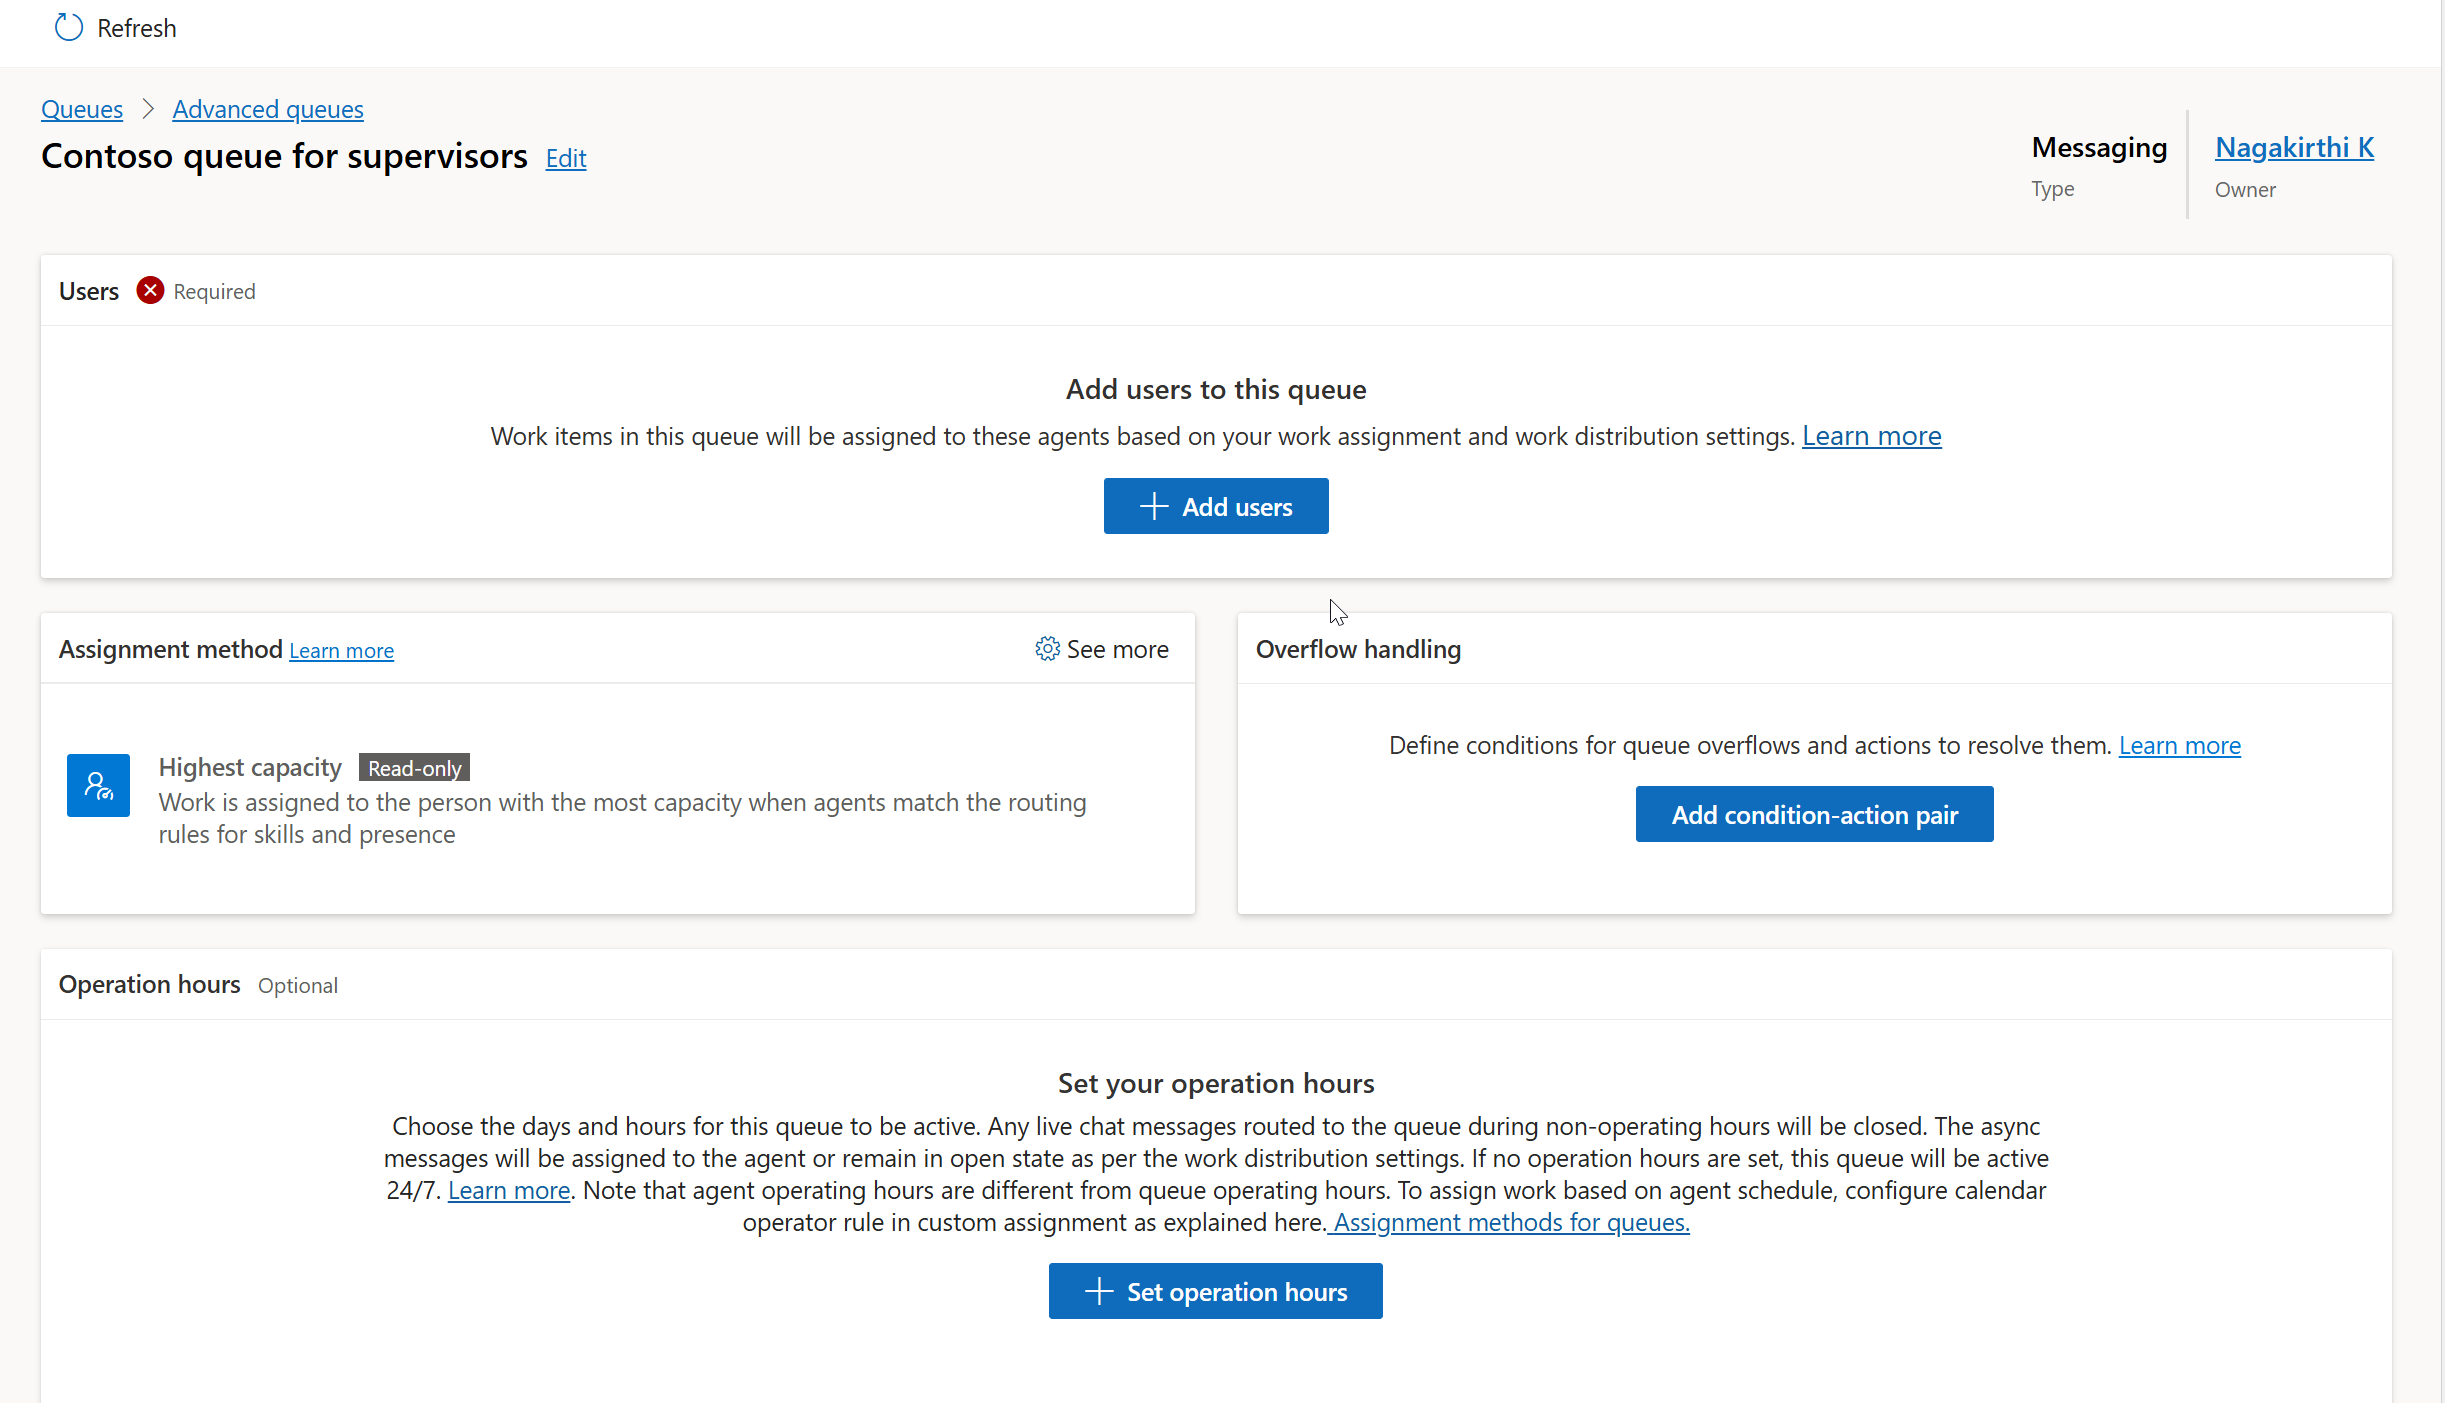
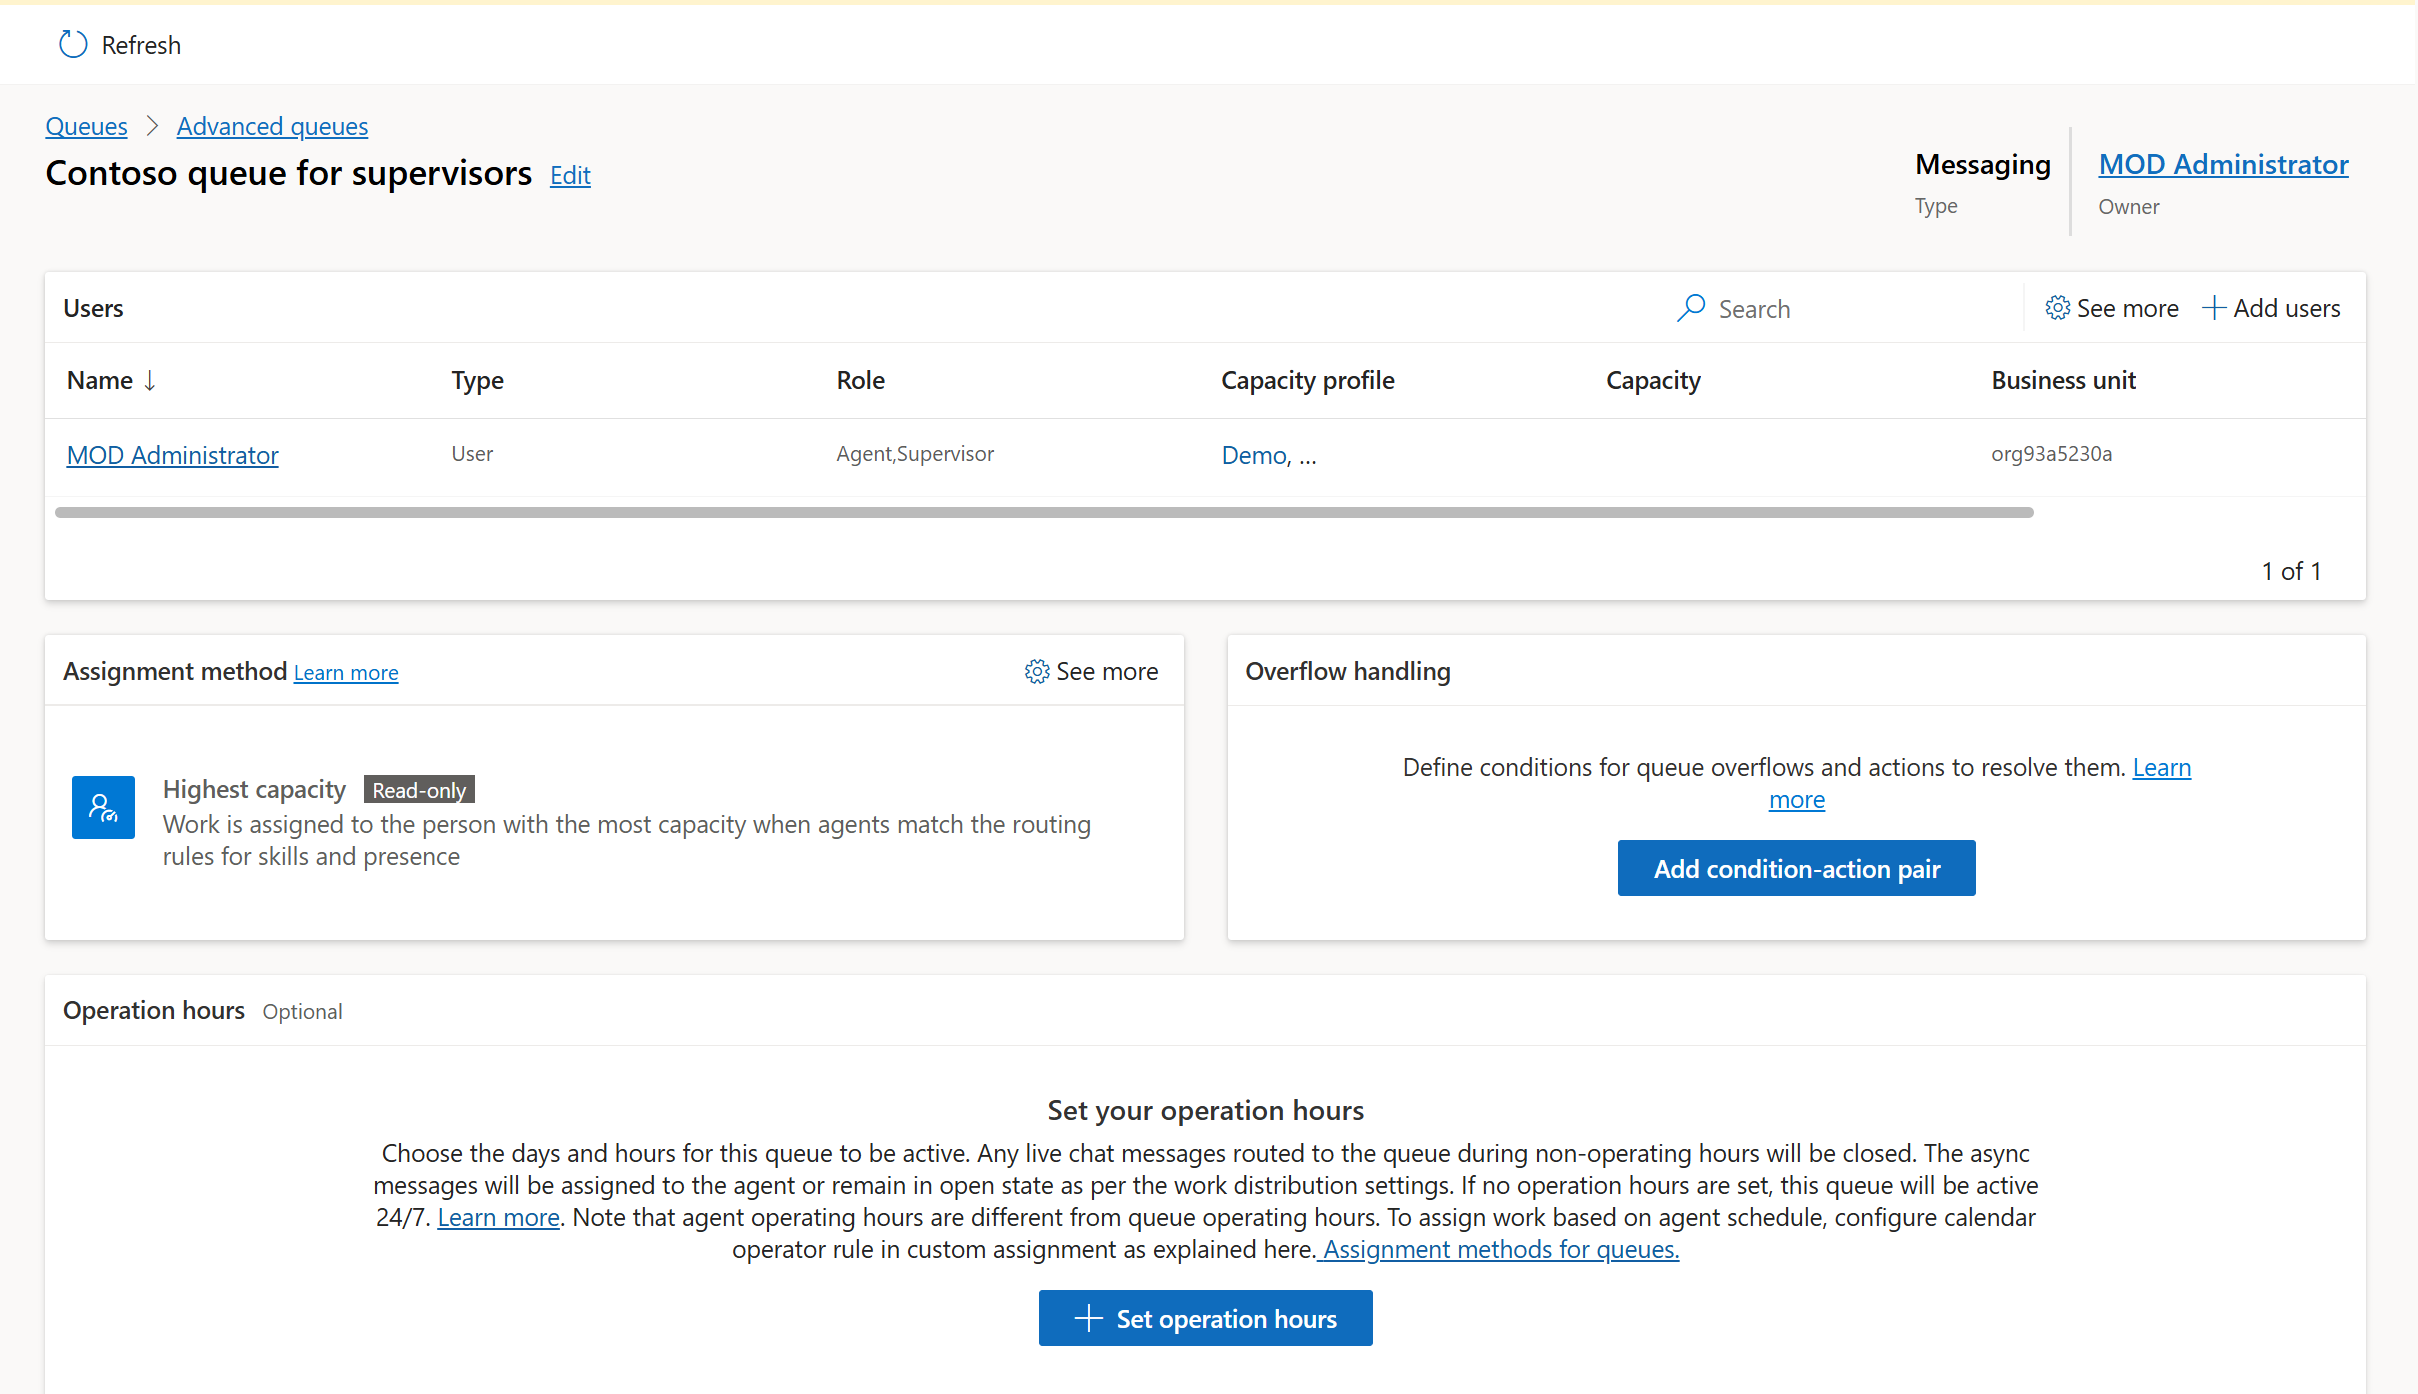
Lab 5

diff --git a/Lab Guides/Lab 5 - Create and manage workstreams and Queues.md b/Lab Guides/Lab 5 - Create and manage workstreams and Queues.md
@@ -1,4 +1,6 @@
-# Create and manage workstreams and Queues
+# Lab 5 - Create and manage workstreams and Queues
+
+**Objective** - In this Lab, you will create workstream and Queue in the customer service admin center. You will also navigate through how we manage them in the Customer Service admin center.
 
 ## Exercise 1 - Create and Manage Workstream
 
@@ -11,25 +13,23 @@ admin center app.
     window, launch from **Power Platform Admin center \> Environments\>
     Your Environment \> Environment URL.**
 
-2.  Select Customer Service Workspace and Select Customer Service Admin
-    center from the list of Apps.
+2.  Select **Customer Service Workspace** and Select **Customer Service Admin
+    center** from the list of Apps.
 
 3.  In the site map of admin center,
-    select **Workstreams** in **Customer support**.
+    select **Workstreams** under **Customer support**.
 
-![A screenshot of a phone Description automatically
+    ![A screenshot of a phone Description automatically
 generated](./media/media5/image1.png)
 
 4.  Select **New workstream**.
 
-![A screenshot of a chat Description automatically
+    ![A screenshot of a chat Description automatically
 generated](./media/media5/image2.png)
 
 5.  In the **Create a workstream** dialog, enter the following details:
 
-    - **Name**: Enter an intuitive name - **Contoso chat workstream**.
-
-    &nbsp;
+    - **Name**: Enter an intuitive name - `Contoso chat workstream`.
 
     - **Type**: Select **Messaging**
 
@@ -37,8 +37,6 @@ generated](./media/media5/image2.png)
       as **Messaging**. Select **Chat**
 
     - Select **Persistent** **Chat** checkbox.
-
-    &nbsp;
 
     - **Work distribution mode**: Select **Push** 
 
@@ -48,9 +46,9 @@ generated](./media/media5/image2.png)
     - Select **Create**. The workstream that you created is displayed
       with the option to configure the selected channel instance.
 
-![](./media/media5/image3.png)
+    ![](./media/media5/image3.png)
 
-![A screenshot of a computer Description automatically
+    ![A screenshot of a computer Description automatically
 generated](./media/media5/image4.png)
 
 ### Task 2 - Manage workstreams
@@ -61,99 +59,91 @@ generated](./media/media5/image4.png)
 2.  Select **Contoso chat workstream** on the **All workstreams** page
     and select **Edit** on the command menu to edit the workstream.
 
-![](./media/media5/image5.png)
+    ![](./media/media5/image5.png)
 
 3.  To copy the **Contoso chat workstream**, select the workstream and
     click **Copy** on the command menu.
 
-![](./media/media5/image6.png)
+    ![](./media/media5/image6.png)
 
 4.  Select **Copy** in the ***Do you want to copy this
     workstream?*** dialog.
 
-![Graphical user interface, application Description automatically
+    ![Graphical user interface, application Description automatically
 generated](./media/media5/image7.png)
 
 5.  The workstream is copied and inherits the settings of the workstream
     you copied from, including its name, prefixed with **Copy of Contoso
     chat workstream.**
 
-![Graphical user interface, text, application, email Description
+    ![Graphical user interface, text, application, email Description
 automatically generated](./media/media5/image8.png)
 
 6.  To delete the workstream, select the workstream and click
     **Delete.**
 
-![](./media/media5/image9.png)
+    ![](./media/media5/image9.png)
 
 ## Exercise 2 - Create and Manage Queues
 
 ### Task 1 - Create a queue for unified routing
 
-1.  In the site map of Customer Service admin center,
+1.  In the site map of **Customer Service admin center**,
     select **Queues** in **Customer support**.
 
-![A screenshot of a computer Description automatically
+    ![A screenshot of a computer Description automatically
 generated](./media/media5/image10.png)
 
 2.  On the **Queues** page, select **Manage** for **Advanced queues**.
 
-![A screenshot of a computer Description automatically
+    ![A screenshot of a computer Description automatically
 generated](./media/media5/image11.png)
 
-3.  On the **Queues** page, do the following steps:
+3.  On the **Queues** page, Select **New** **Queue**
 
-    1.  Select **New** **Queue**
+    ![A screenshot of a computer Description automatically generated](./media/media5/image12.png)
 
-> ![A screenshot of a computer Description automatically
-> generated](./media/media5/image12.png)
-
-2.  In the **Create a queue** dialog, enter the following details:
+4.  In the **Create a queue** dialog, enter the following details:
 
     - **Name**: **Contoso queue for supervisors**
 
-    &nbsp;
-
     - **Type**: Select **Messaging**
-
-    &nbsp;
 
     - **Group number**: **1**
 
     - Select **Create**
 
-> ![Graphical user interface, table Description automatically
-> generated](./media/media5/image13.png)
+    ![Graphical user interface, table Description automatically generated](./media/media5/image13.png)
 
-3.  The queue that you created is displayed.
+5.  The queue that you created is displayed.
 
-![A screenshot of a computer Description automatically
+    ![A screenshot of a computer Description automatically
 generated](./media/media5/image14.png)
 
-4.  Select **Add users**, and in the flyout menu, select the users who
+6.  Select **Add users**, and in the flyout menu, select the users who
     should be part of the queue, and then select **Add**. The users are
     added to the queue.
 
-![A screenshot of a computer Description automatically
+    ![A screenshot of a computer Description automatically
 generated](./media/media5/image15.png)
 
-5.  In **Assignment method**, You can see **Highest capacity** with
+7.  In **Assignment method**, You can see **Highest capacity** with
     **Read-only**
 
-![A screenshot of a computer Description automatically
+    ![A screenshot of a computer Description automatically
 generated](./media/media5/image16.png)
 
 6.  To set the operating hours, in **Operation hours**, select **Set
     operation hours**.
 
-![A screenshot of a computer Description automatically
+    ![A screenshot of a computer Description automatically
 generated](./media/media5/image17.png)
 
 7.  On the **Set operation hours** dialog that appears, click the
     dropdown next to **Select operation hours** and then click **+
     Create new**.
 
-![A screenshot of a computer Description automatically
+    ![A screenshot of a computer Description automatically
 generated](./media/media5/image18.png)
 
 8.  On the **New Operating Hour** page, enter **Contoso operation
@@ -162,21 +152,21 @@ generated](./media/media5/image18.png)
 9.  Click **Save & Close** to navigate back to the **Contoso queue for
     supervisors** page.
 
-![](./media/media5/image19.png)
+    ![](./media/media5/image19.png)
 
 10. On the **Contoso queue for supervisors** page, click **+** **Set
-    operation hours** again**.**
+    operation hours** again.
 
 11. On the **Set operation hours** pane, search for and select **Contoso
     operation hours** and click **Save and close.**
 
-![A screenshot of a computer screen Description automatically
+    ![A screenshot of a computer screen Description automatically
 generated](./media/media5/image20.png)
 
 12. The operation hours record that you selected is configured for the
     queue.
 
-![A screenshot of a computer Description automatically
+    ![A screenshot of a computer Description automatically
 generated](./media/media5/image21.png)
 
 ### Task 2 - Manage queues for unified routing
@@ -184,21 +174,24 @@ generated](./media/media5/image21.png)
 1.  On the **Queues** page, select the **Contoso queue for supervisors**
     to edit the users, assignment methods, or operating hour record.
 
-![](./media/media5/image22.png)
+    ![](./media/media5/image22.png)
 
 2.  Select **Contoso queue for supervisors** on the **Queues** page,
     select **Copy** on the command menu.
 
-![](./media/media5/image23.png)
+    ![](./media/media5/image23.png)
 
 3.  Select **Copy** in the ***Copy Queue*** dialog.
 
-![A screenshot of a computer screen Description automatically
+    ![A screenshot of a computer screen Description automatically
 generated](./media/media5/image24.png)
 
 4.  The queue is copied and inherits the settings of the queue you
     copied from, including its name, prefixed with **Copy of Contoso
     queue for supervisors**.
 
-![A screenshot of a computer Description automatically
+    ![A screenshot of a computer Description automatically
 generated](./media/media5/image25.png)
+
+
+**Summary** - You have created workstream and Queue in the customer service admin center. You will also navigate through how we manage them in the Customer Service admin center.
